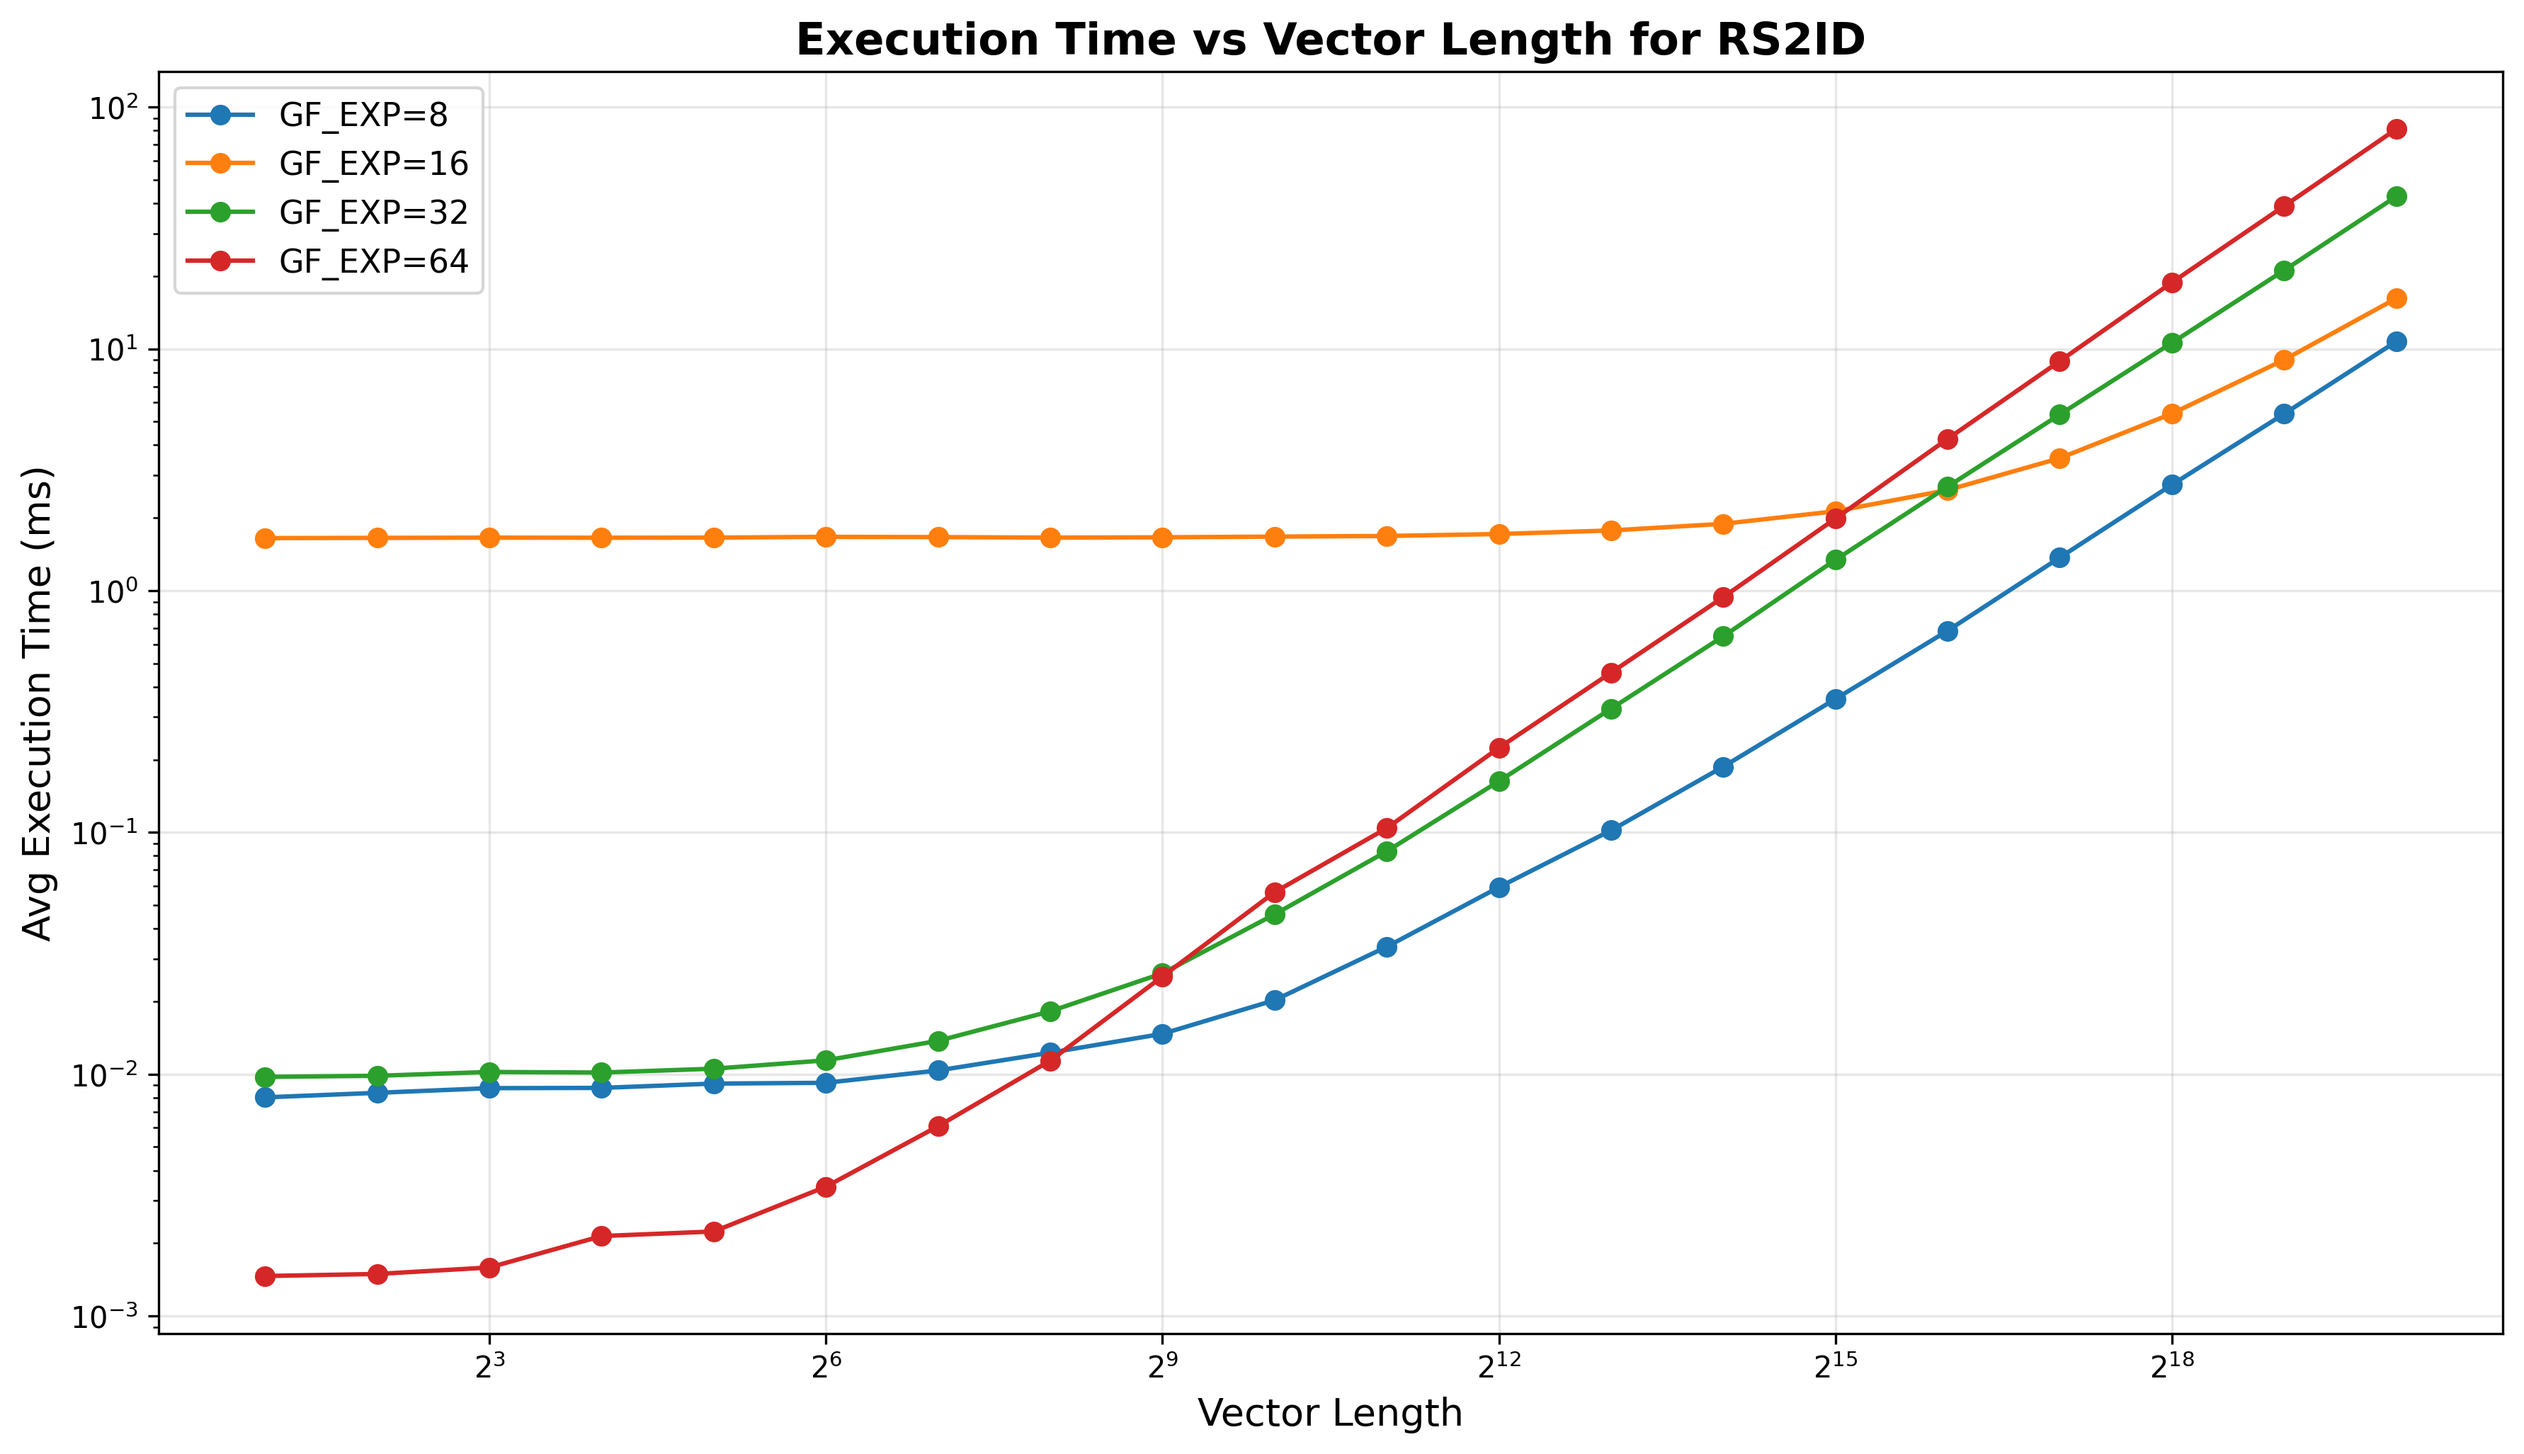
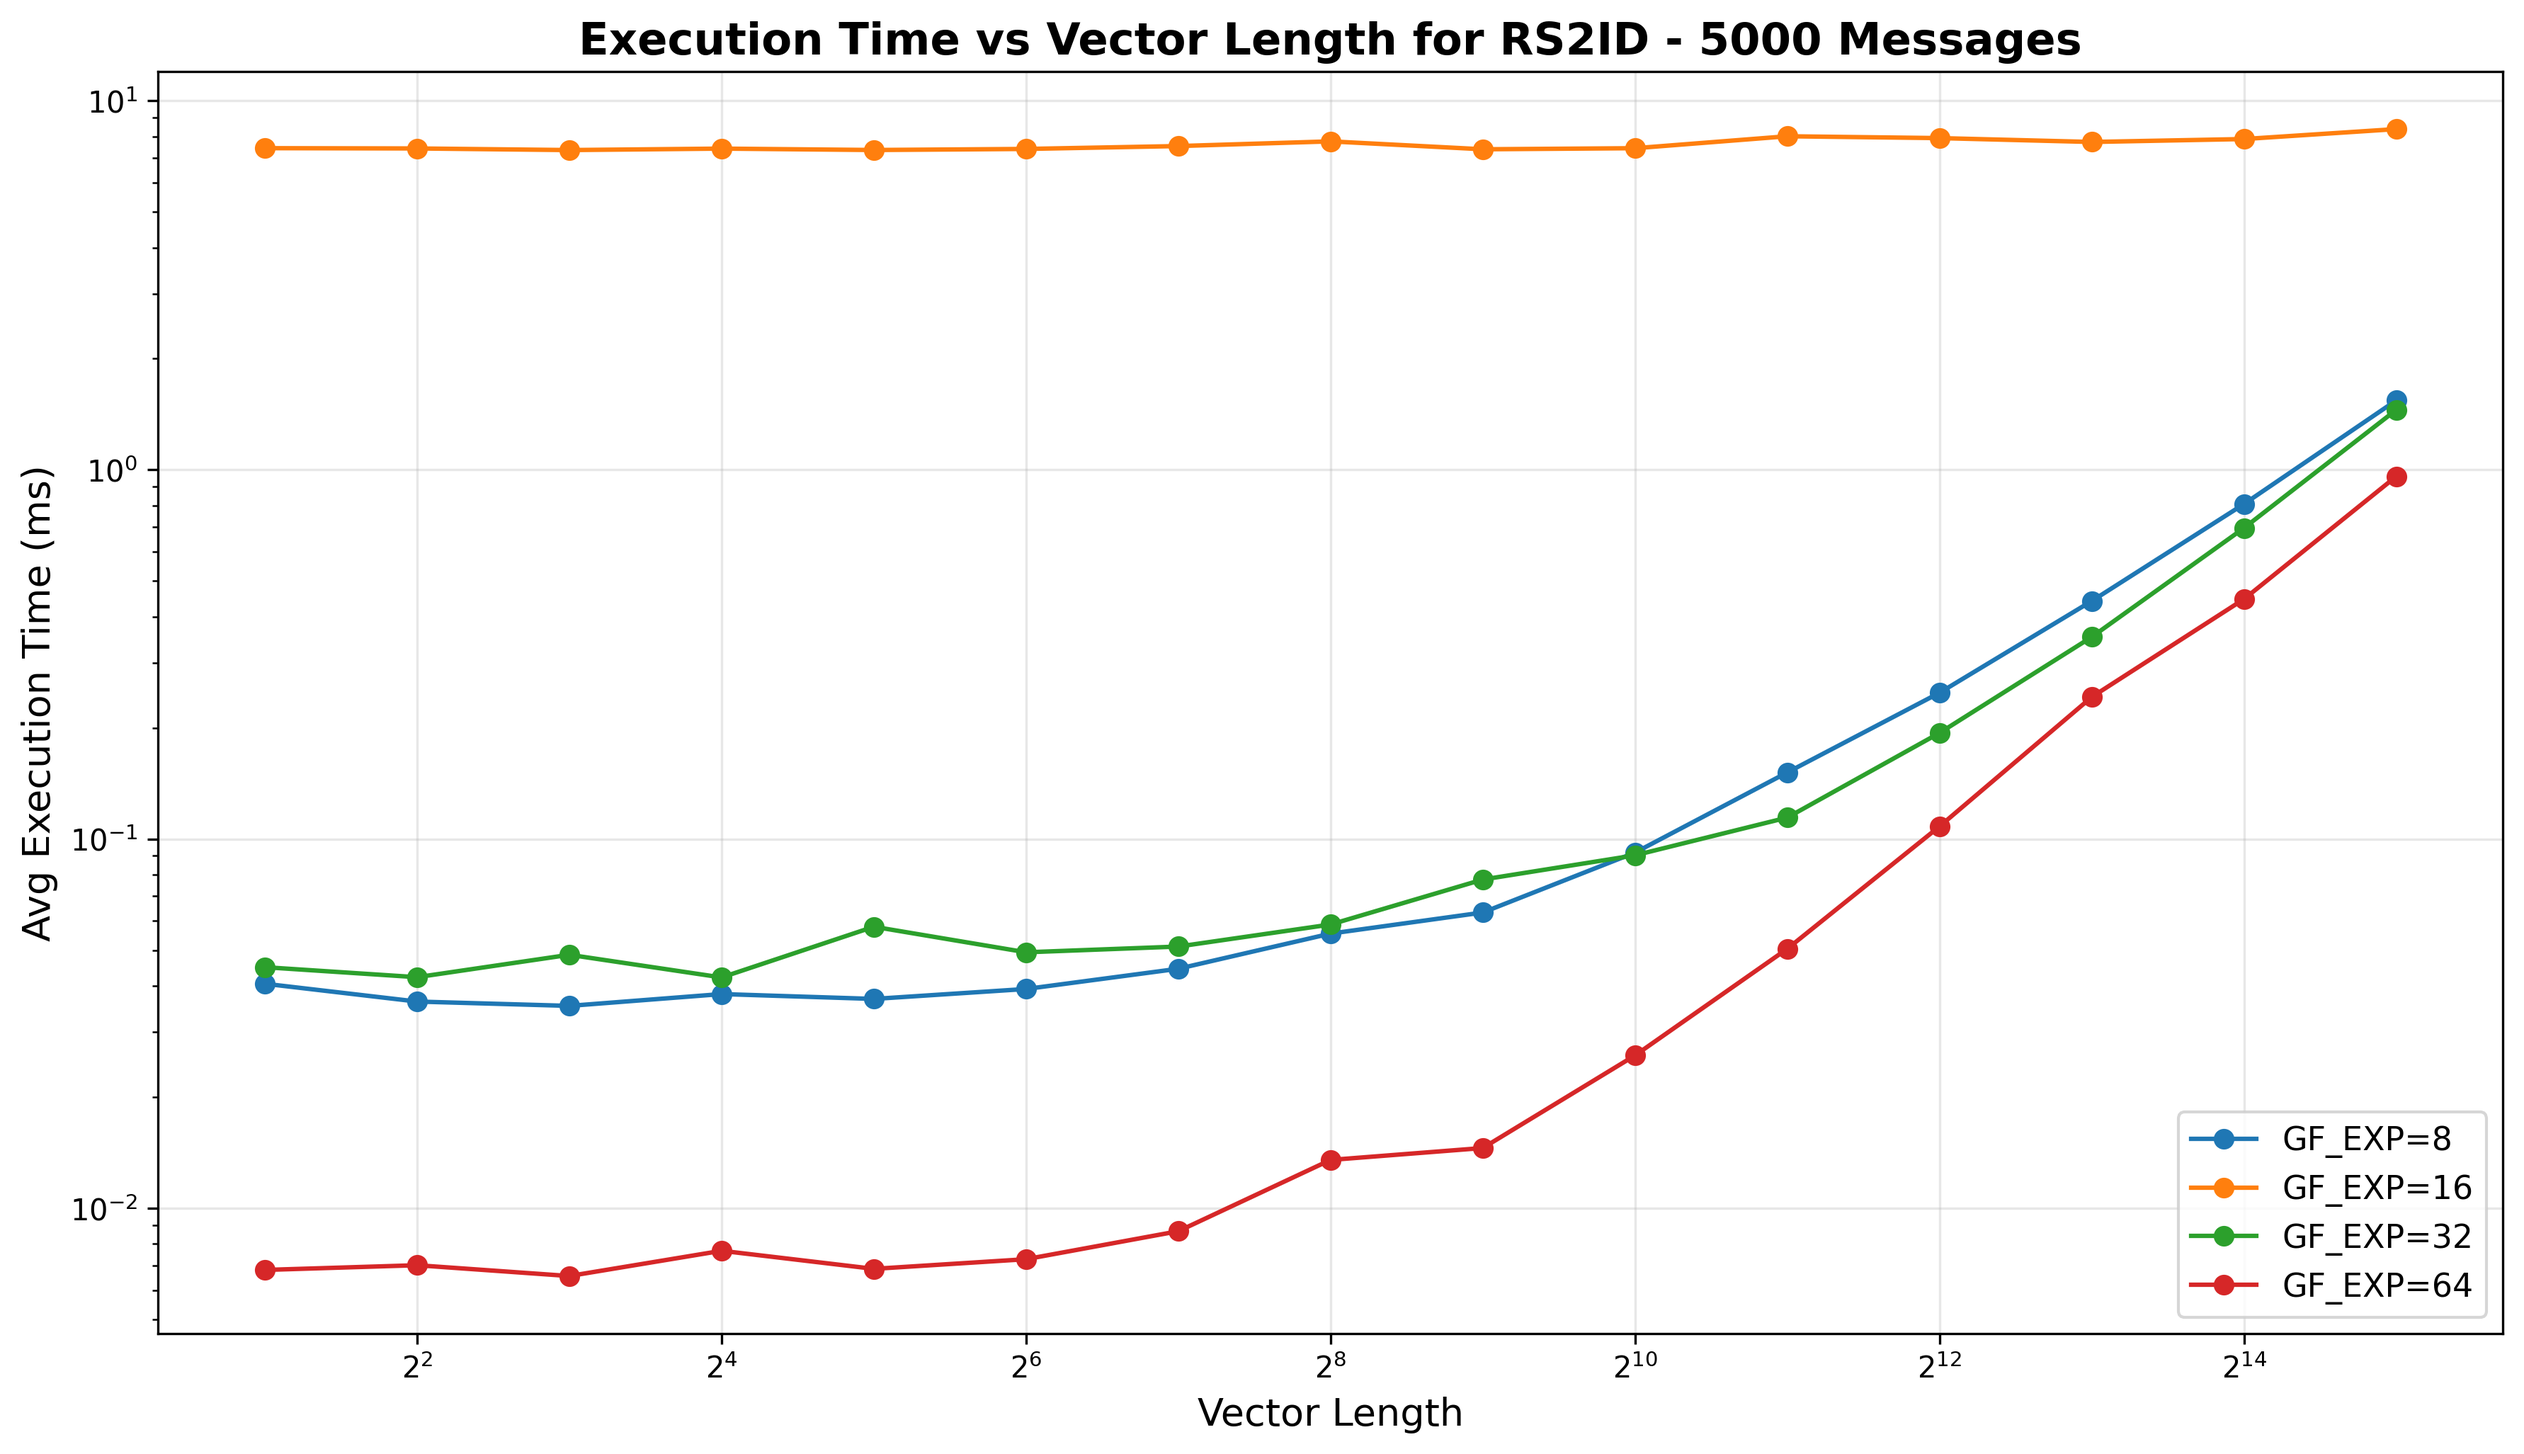
update: see previous commit

diff --git a/analyses/framework_performance/multi_parameter.py b/analyses/framework_performance/multi_parameter.py
@@ -13,7 +13,7 @@ def main():
     print("=" * 60)
 
     # Parameters
-    vec_lengths = [2**i for i in range(1, 21)]
+    vec_lengths = [2**i for i in range(1, 16)]
     gf_exp_values = [8, 16, 32, 64]
     system_types = [
         ("RSID", lambda gf_exp: lambda vec_len: create_id_system("RSID", {"gf_exp": gf_exp, "tag_pos": 2})),
@@ -23,6 +23,7 @@ def main():
         ("SHA256ID", lambda gf_exp: lambda vec_len: create_id_system("SHA256ID", {"gf_exp": gf_exp})),
     ]
 
+    num_messages = 5000
     # For each system, collect execution time for all gf_exp and vec_lengths
     for system_name, sys_factory in system_types:
         print(f"\nSystem: {system_name}")
@@ -31,20 +32,19 @@ def main():
             exec_times = []
             for vec_len in vec_lengths:
                 print(f"  gf_exp={gf_exp}, vec_len={vec_len} ...", end="", flush=True)
-                messages = generate_test_messages(vec_len=vec_len, gf_exp=gf_exp, count=100)
+                # messages = generate_test_messages(vec_len=vec_len, gf_exp=gf_exp, count=100)
                 system = sys_factory(gf_exp)(vec_len)
                 metrics = IdMetrics.evaluate_system(
-                    system,
-                    messages,
-                    num_trials=0,
-                    timing_iterations=1000,
-                    p_true_positive=0.5
+                    system=system,
+                    vec_len=vec_len,
+                    num_messages=num_messages,
+                    message_subset_size=10
                 )
                 exec_times.append(metrics["avg_execution_time_ms"])
                 print(f" {metrics['avg_execution_time_ms']:.3f} ms")
             plt.plot(vec_lengths, exec_times, marker='o', label=f"GF_EXP={gf_exp}")
 
-        plt.title(f"Execution Time vs Vector Length for {system_name}", fontsize=15, fontweight='bold')
+        plt.title(f"Execution Time vs Vector Length for {system_name} - {num_messages} Messages", fontsize=15, fontweight='bold')
         plt.xlabel("Vector Length", fontsize=13)
         plt.ylabel("Avg Execution Time (ms)", fontsize=13)
         plt.xscale("log", base=2)

diff --git a/framework/metrics.py b/framework/metrics.py
@@ -293,9 +293,9 @@ class IdMetrics:
                 tag_entropy -= prob * math.log2(prob)
         
         # Calculate uniqueness (fraction of unique tags)
-        unique_tags = len(tag_counts)
-        tag_uniqueness = unique_tags / total_tags
-        
+        unique_tags = len(tag_counts) if total_tags > 0 else 0
+        tag_uniqueness = unique_tags / total_tags if total_tags > 0 else 0.0
+
         # Calculate distribution uniformity (how close to uniform distribution)
         # This is the relative entropy compared to a uniform distribution
         # D(p_X || p_U) = log2(|χ|) - H(X) where X is the random variable, |χ| the size of the alphabet 
